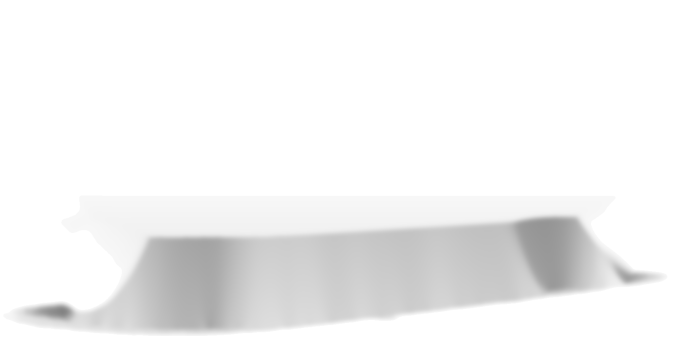
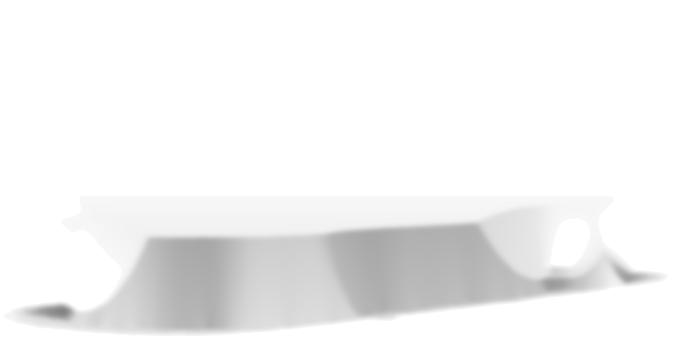
fix(fleet): controls on the wall, cars clear of the copy, studio layer isolated, V-Class underside cleaned
Claude-Session: https://claude.ai/code/session_013YRULBPZw1oejFxfmXd1oW

Changed region(s): [[0.7103, 0.6195, 0.8956, 0.826], [0.4941, 0.649, 0.6794, 0.944]]

diff --git a/app/globals.css b/app/globals.css
@@ -329,7 +329,7 @@ html.anyos-editing :is(.arr-scene[data-scene='b'], .arr-scene[data-scene='c'], .
 .fleet { overflow: hidden; }
 .fleet-head { position: relative; z-index: 2; padding-top: 3.5rem; }
 .garage-stage {
-  position: relative; height: clamp(15rem, 40svh, 24rem); overflow: hidden;
+  position: relative; z-index: 0; isolation: isolate; height: clamp(15rem, 40svh, 24rem); overflow: hidden;
   background: #cfc6c0 url('/media/motion/fleet/garage-tall.webp') center / cover no-repeat;
 }
 @media (min-width: 640px) { .garage-stage { background-image: url('/media/motion/fleet/garage-wide.webp'); height: clamp(20rem, 56svh, 32rem); } }
@@ -339,13 +339,13 @@ html.anyos-editing :is(.arr-scene[data-scene='b'], .arr-scene[data-scene='c'], .
   .fleet { display: flex; flex-direction: column; min-height: max(44rem, 100svh); }
   .garage { display: contents; }
   .garage-stage { position: absolute; inset: 0; height: auto; }
-  .garage-light { background: radial-gradient(30% 22% at 60% 78%, rgba(255, 250, 244, 0.55), rgba(255, 250, 244, 0) 70%); }
+  .garage-light { background: radial-gradient(30% 22% at 64% 78%, rgba(255, 250, 244, 0.55), rgba(255, 250, 244, 0) 70%); }
   .fleet-head { padding-top: calc(var(--tl-header-h) + 2rem); }
-  .garage-ui { flex: 1; grid-template-columns: minmax(0, 26rem) 1fr auto; grid-template-rows: auto 1fr auto; align-items: end; padding-bottom: 0.5rem; }
-  .garage-card { grid-column: 1; grid-row: 1; align-self: start; }
-  .garage-tabs { grid-column: 1 / 3; grid-row: 3; }
-  .garage-steps { grid-column: 3; grid-row: 3; }
-  .fleet-note { position: relative; z-index: 2; }
+  /* Everything to operate sits in the left column on the wall; the floor stays clear for the cars. */
+  .garage-ui { flex: 1; grid-template-columns: minmax(0, 27rem); align-content: start; gap: 1rem; padding-bottom: 0.5rem; }
+  .garage-tabs { order: 2; }
+  .garage-steps { order: 3; }
+  .fleet-note { position: relative; z-index: 2; margin-top: auto; }
 }
 .garage-car { position: absolute; left: 0; top: 0; transform-origin: 0 0; will-change: transform; }
 .garage-car > img { position: absolute; inset: 0; width: 100%; height: 100%; max-width: none; }

diff --git a/components/fleet/FleetGarage.tsx b/components/fleet/FleetGarage.tsx
@@ -17,7 +17,7 @@ import { QuoteLink } from '../QuoteLink'
 // photograph instead of the cut-out.
 
 const BASE = '/media/motion/fleet'
-const GAP_M = 2.6
+const GAP_M = 3.4
 const PERSP = 0.035 // size change per metre of depth, from the S-Class's own wheels
 const CARS = FLEET_GEO.cars
 const ref = CARS.find(c => c.slug === 'sclass')!
@@ -52,7 +52,7 @@ export function FleetGarage() {
     const desk = W >= 1024
     const k = desk ? Math.min((0.44 * W) / ref.w, (0.42 * H) / ref.h) : wide ? Math.min((0.5 * W) / ref.w, (0.6 * H) / ref.h) : Math.min((0.92 * W) / ref.w, (0.6 * H) / ref.h)
     const o = offset.current
-    const spotX = W * (desk ? 0.6 : 0.5)
+    const spotX = W * (desk ? 0.64 : 0.5)
     const spotY = H * (desk ? 0.76 : 0.9)
     CARS.forEach((c, i) => {
       const el = carRefs.current[i]

diff --git a/scripts/motion/build_fleet.py b/scripts/motion/build_fleet.py
@@ -141,6 +141,13 @@ def main():
         xf, xr = hf[0], hr[0]
         line = gf + (xx - xf) * (gr - gf) / (xr - xf)
         alpha = np.where(yy > line + 2, 0, alpha).astype(np.float32)
+        if c['slug'] == 'vclass':
+            # the render's white floor shows under the body between the wheels: not part of the van
+            lum0 = rgb.astype(np.float32).mean(2)
+            sill = line - 0.07 * H
+            under = (yy > sill) & (xx > xf + 0.06 * W) & (xx < xr - 0.05 * W) & (lum0 > 150)
+            alpha = np.where(under, 0, alpha)
+            alpha = cv2.GaussianBlur(alpha, (0, 0), 0.8)
         shadow, _ = shadow_layer(rgb, alpha, max(gf, gr))
         body = rgb.astype(np.float32)
         if c.get('warm') and ref_mean is not None:
